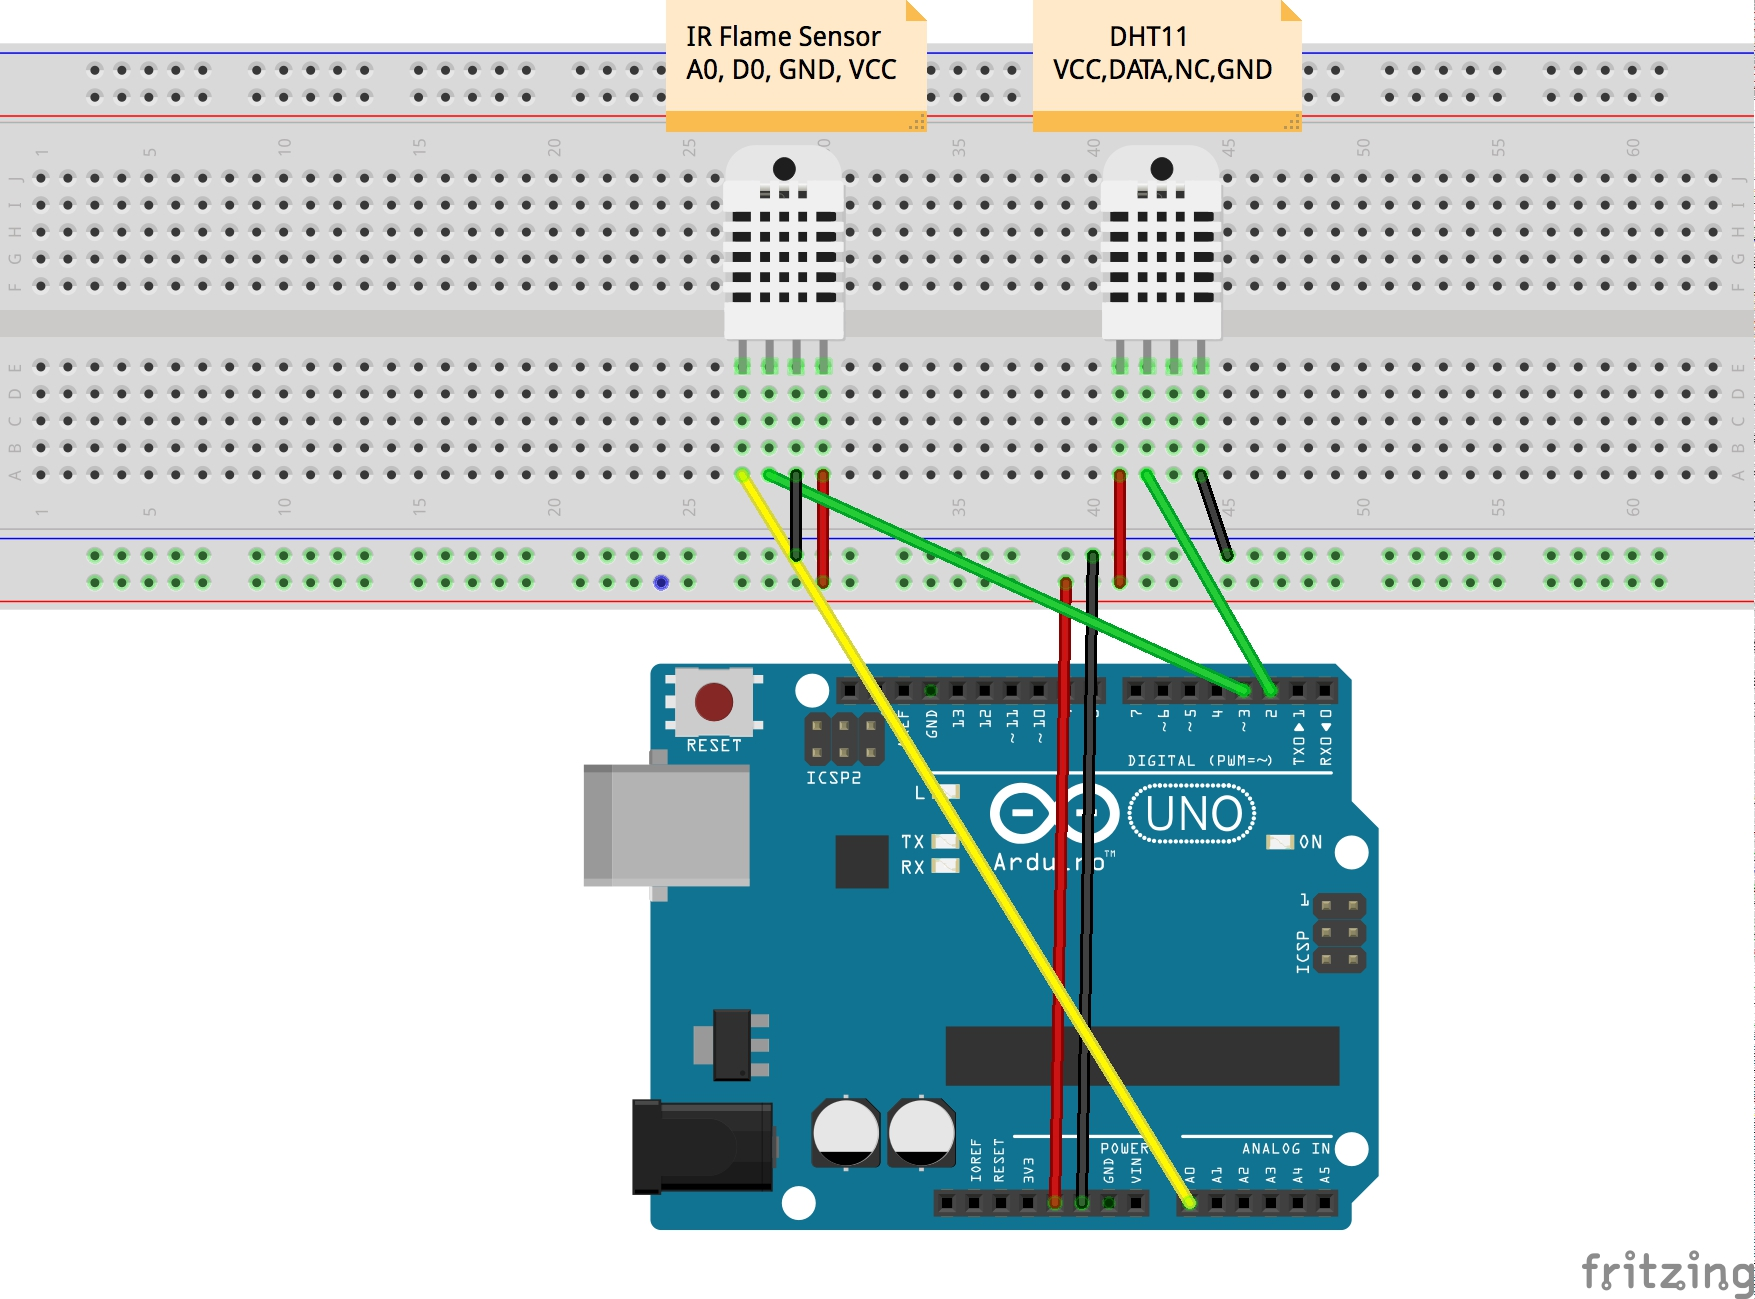
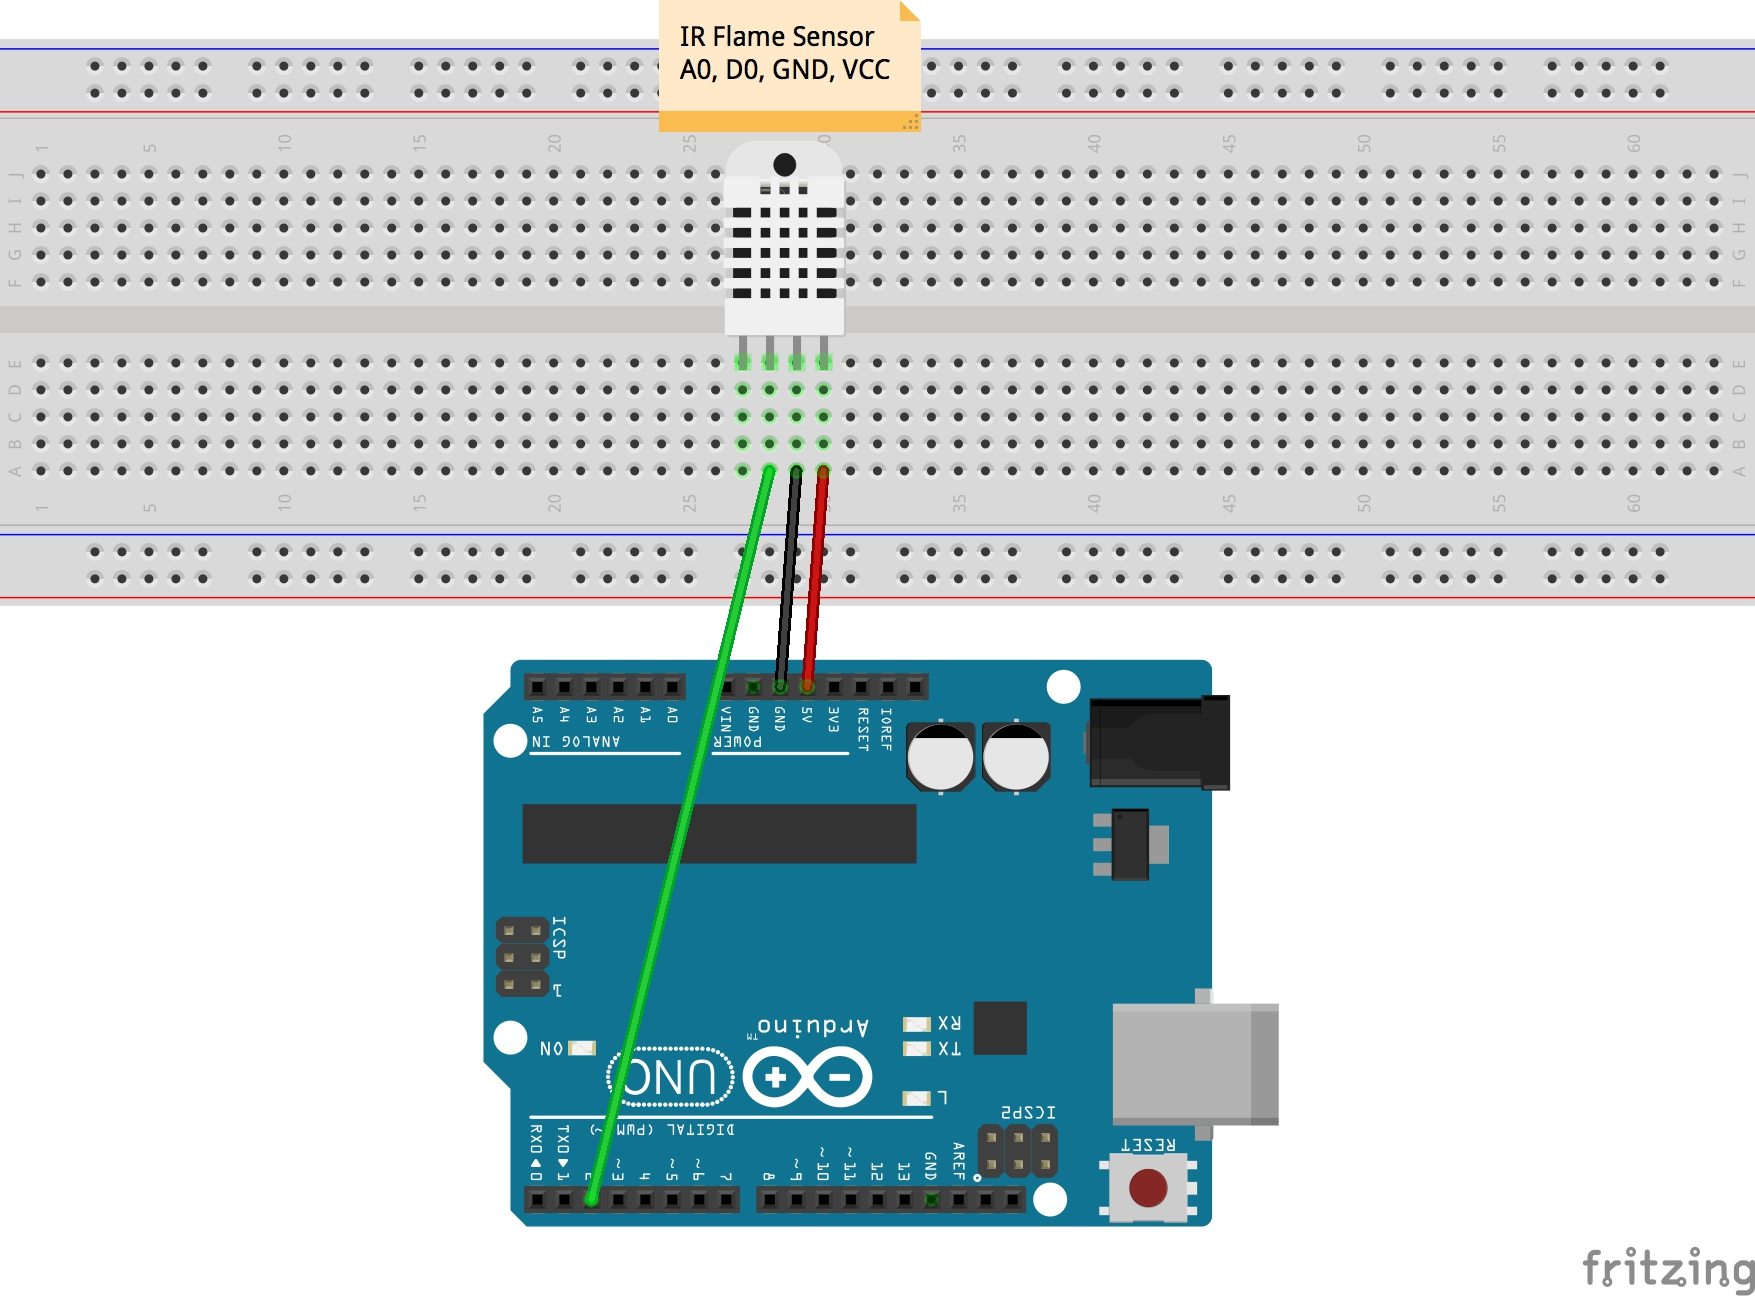
SAMIDE-222 IoT add new pictures

Changed region(s): [[0.0, 0.0, 1.0, 0.9568], [0.9231, 0.9568, 1.0, 1.0]]

diff --git a/source/sami/demos-tools/your-first-iot.md b/source/sami/demos-tools/your-first-iot.md
@@ -33,7 +33,7 @@ If you do not have a Raspberry Pi, you may still work through this tutorial. Con
 
 ## Step 1: Connect a device in the SAMI User Portal
 
-Go to the Developer Portal to create a private device type. (Similar to Step 3 at https://www.hackster.io/monica/getting-started-with-sami-grove-weather-station). (comments: device type: Flame Sensor; unique name: com.example.iot.flame) 
+Go to the Developer Portal to create a private device type. (TODO by ryan Similar to Step 3 at https://www.hackster.io/monica/getting-started-with-sami-grove-weather-station). (comments: device type: Flame Sensor; unique name: com.example.iot.flame) 
 
  1. First, sign into the SAMI [Developer Portal](https://portal.samsungsami.io). If you don't have a Samsung account, you can create one at this step.
  2. blah....
@@ -43,7 +43,6 @@ Then go to the User Portal to connect the device:
 
  1. Sign into the SAMI [User Portal](https://portal.samsungsami.io).
  1. On the dashboard, click to connect a new device. Choose the device type created just now "Flame Sensor".
- 1. Name this device using your name (e.g., "My Sensor").
  1. Click "Connect Device...". You're taken back to the dashboard.
  1. Click the Settings icon of the device you just added. In the pop-up, click "GENERATE DEVICE TOKEN…".
  1. Copy the device ID and device token on this screen. You will use these in the code.
@@ -51,12 +50,13 @@ Then go to the User Portal to connect the device:
 ## Step 2: Set up the Arduino
 
 Now let's wire the sensors to the Arduino.
+(TODO by ryan: crop the image and remove the shadow)
 
-![TODO replace picture Arduino and sensors](/images/docs/sami/demos-tools/first-iot-arduino-breadboard.jpg)
+![Arduino and sensors](/images/docs/sami/demos-tools/first-iot-arduino-breadboard.jpg)
 
 The two sensors are wired as follows:
 
-![TODO replace picture Fritzing](/images/docs/sami/demos-tools/first-iot-sensors-connect-arduino.jpg)
+![Fritzing](/images/docs/sami/demos-tools/first-iot-sensors-connect-arduino.jpg)
 
 Next, upload the Sketch program (`read_flame_sensor.ino`) to the Arduino Uno using the [Arduino IDE](https://www.arduino.cc/en/Main/Software). This code reads one digital value from the IR flame sensor, and then sends it to the serial port every 5 seconds (you can change this parameter in the code later, since SAMI has [rate limits](https://developer.samsungsami.io/sami/sami-documentation/rate-limiting.html#websocket-limits) for the number of messages per day).  For the digital readings, "0" means that a fire is detected and "1" means no fire. 
 
@@ -103,15 +103,15 @@ $ npm install ws
 ~~~
 
 Now connect the serial port from the Arduino to the USB on the Raspberry Pi.
+(TODO by ryan: crop the image to make it nice if needed?)
 
-![TODO replace Connect Arduino and Raspberry Pi](/images/docs/sami/demos-tools/first-iot-raspberrypi-arduino-breadboard.jpg)
+![Arduino and Raspberry Pi](/images/docs/sami/demos-tools/first-iot-raspberrypi-arduino-breadboard.jpg)
 
 Finally, download the Node.js code (`send_data_to_sami.js`) to the Raspberry Pi. Replace the placeholders in the code with the device token and device ID you collected from the [User Portal](https://portal.samsungsami.io).
 
 The Node.js code below establishes a [bi-directional WebSocket](https://developer.samsungsami.io/sami/api-spec.html#bi-directional-message-pipe) connection between the Raspberry Pi and SAMI. Each time, it reads one data points from the serial port, and then wraps it in one message and sends the message to SAMI via WebSocket:
 
 ~~~javascript
-<script>
 var webSocketUrl = "wss://api.samsungsami.io/v1.1/websocket?ack=true";
 var device_id = "<YOUR DEVICE ID>";
 var device_token = "<YOUR DEVICE TOKEN>";
@@ -210,7 +210,6 @@ sp.on("open", function () {
             sendData(onFire);
     });
 });
-</script>
 ~~~
 
 ## Step 4: Fire it up and view the data!
@@ -235,3 +234,5 @@ View your device data as it's generated by clicking the device name in the devic
 
 ![TODO replace only show onFire data visualization](/images/docs/sami/demos-tools/first-iot-userportal-chart.png)
 
+## Conclusion
+TODO by ryan: add any conclude words here (do we need?)
